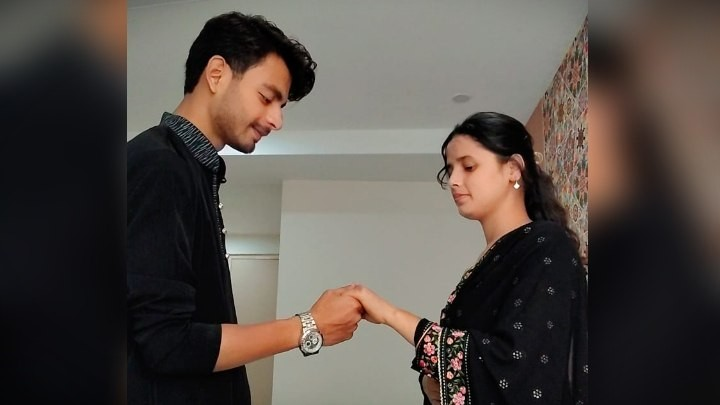
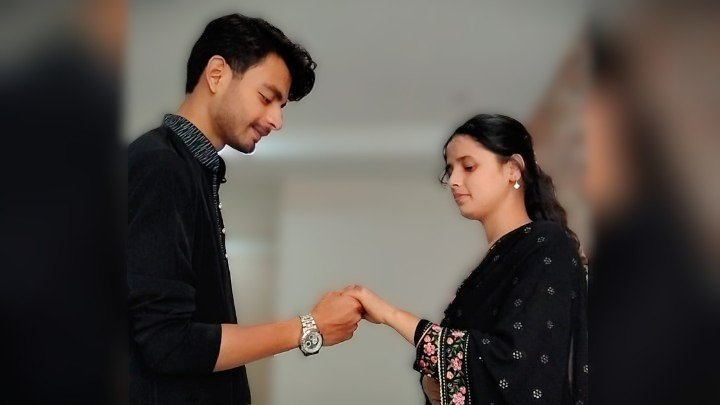
Added codes

diff --git a/components/MusicPlayer.jsx b/components/MusicPlayer.jsx
@@ -9,6 +9,15 @@ export default function MusicPlayer() {
   const toggleMusic = () => {
     if (!audioRef.current) return;
 
+    // 🎵 interaction music
+    const interactionMusic = document.getElementById("interaction-music");
+
+    // 🔥 stop interaction music
+    if (interactionMusic) {
+      interactionMusic.pause();
+      //interactionMusic.currentTime = 0;
+    }
+
     if (playing) {
       audioRef.current.pause();
       setPlaying(false);
@@ -19,22 +28,33 @@ export default function MusicPlayer() {
   };
 
   useEffect(() => {
-    const audio = audioRef.current;
-
-    if (!audio) return;
-
-    const onPlay = () => setPlaying(true);
-    const onPause = () => setPlaying(false);
-
-    audio.addEventListener("play", onPlay);
-    audio.addEventListener("pause", onPause);
-
-    return () => {
-      audio.removeEventListener("play", onPlay);
-      audio.removeEventListener("pause", onPause);
-    };
+    window.switchToInteractionMusic = switchToInteractionMusic;
+    window.restoreMainMusic = restoreMainMusic;
   }, []);
 
+  const switchToInteractionMusic = () => {
+    const bgMusic = document.getElementById("bg-music");
+    const interactionMusic = document.getElementById("interaction-music");
+
+    if (bgMusic && interactionMusic) {
+      bgMusic.pause();
+
+      interactionMusic.volume = 0.5;
+      interactionMusic.play().catch(() => {});
+    }
+  };
+
+  const restoreMainMusic = () => {
+    const bgMusic = document.getElementById("bg-music");
+    const interactionMusic = document.getElementById("interaction-music");
+
+    if (bgMusic && interactionMusic) {
+      interactionMusic.pause();
+
+      bgMusic.volume = 0.5;
+      bgMusic.play().catch(() => {});
+    }
+  };
   useEffect(() => {
     const audio = audioRef.current;
 
@@ -57,6 +77,9 @@ export default function MusicPlayer() {
       {/* 🎵 Audio */}
       <audio id="bg-music" ref={audioRef} loop preload="auto">
         <source src="/music2.mp3" type="audio/mpeg" />
+      </audio>
+      <audio id="interaction-music" loop preload="auto">
+        <source src="/music.mp3" type="audio/mpeg" />
       </audio>
 
       {/* 🎧 Button */}

diff --git a/components/Gallery.jsx b/components/Gallery.jsx
@@ -150,30 +150,7 @@ function GalleryCard({
         <div className="absolute inset-0 bg-gradient-to-br from-purple-500/10 to-pink-500/10 opacity-0 group-hover:opacity-100 transition duration-500 z-10" />
 
         {/* 🔥 Slider */}
-        <motion.div
-          drag="x"
-          dragConstraints={{ left: 0, right: 0 }}
-          onDragStart={() => setIsDragging(true)}
-          onDragEnd={(e, info) => {
-            const threshold = 50;
-
-            // 👉 Swipe Left
-            if (info.offset.x < -threshold) {
-              setManualIndex((prev) => (prev + 1) % item.images.length);
-            }
-
-            // 👉 Swipe Right
-            if (info.offset.x > threshold) {
-              setManualIndex((prev) =>
-                prev === 0 ? item.images.length - 1 : prev - 1,
-              );
-            }
-
-            // 🔥 Return to auto mode after 5 sec
-            setTimeout(() => {
-              setIsDragging(false);
-            }, 5000);
-          }}
+        <div
           className="flex transition-transform duration-700 ease-in-out h-100 cursor-grab active:cursor-grabbing"
           style={{
             transform: `translateX(-${current * 100}%)`,
@@ -190,7 +167,7 @@ function GalleryCard({
               "
             />
           ))}
-        </motion.div>
+        </div>
 
         {/* 🌌 Overlay */}
         <div className="absolute inset-0 bg-gradient-to-t from-black/80 via-black/20 to-transparent" />
@@ -269,7 +246,7 @@ function ImageSliderModal({ selectedImage, setSelectedImage }) {
         initial={{ scale: 0.85, opacity: 0 }}
         animate={{ scale: 1, opacity: 1 }}
         transition={{ type: "spring", stiffness: 120 }}
-        className="relative max-w-6xl w-full"
+        className="relative max-w-6xl w-96"
         onClick={(e) => e.stopPropagation()}
       >
         {/* ✨ Glow */}
@@ -289,7 +266,7 @@ function ImageSliderModal({ selectedImage, setSelectedImage }) {
                 src={img}
                 alt=""
                 className="
-                  w-full max-h-[85vh]
+                  w-96 max-h-[70vh]
                   object-cover shrink-0
                 "
               />
@@ -326,7 +303,13 @@ export default function Gallery() {
   }, [activeCard]);
 
   return (
-    <section id="Gallery" className="py-28 px-4 text-white relative z-10">
+    <section
+      id="Gallery"
+      className="py-28 px-4 text-white relative z-10"
+      onMouseEnter={() => window.switchToInteractionMusic?.()}
+      onMouseLeave={() => window.restoreMainMusic?.()}
+      onTouchStart={() => window.switchToInteractionMusic?.()}
+    >
       {/* 💖 Heading */}
       <div className="text-center mb-16">
         <h2

diff --git a/components/VideoSection.jsx b/components/VideoSection.jsx
@@ -75,11 +75,15 @@ export default function VideoSection() {
   };
 
   return (
-    <section id="Video" className="py-24 px-4 text-white relative z-10">
+    <section
+      id="Video"
+      className="py-24 px-4 text-white relative z-10"
+      onTouchStart={() => window.restoreMainMusic?.()}
+    >
       {/* Heading */}
       <div className="text-center mb-16">
         <h2 className="text-3xl md:text-5xl font-bold bg-gradient-to-r from-purple-300 to-pink-300 bg-clip-text text-transparent">
-          Our Moments 🎥
+          Our Moments
         </h2>
 
         <p className="text-gray-400 mt-3">

diff --git a/components/MemoryMarquee.jsx b/components/MemoryMarquee.jsx
@@ -44,7 +44,12 @@ export default function MemoryMarquee() {
   const [selectedImage, setSelectedImage] = useState(null);
 
   return (
-    <section className="py-20 text-white">
+    <section
+      className="py-20 text-white"
+      onMouseEnter={() => window.switchToInteractionMusic?.()}
+      onMouseLeave={() => window.restoreMainMusic?.()}
+      onTouchStart={() => window.switchToInteractionMusic?.()}
+    >
       {/* Heading */}
       <div className="text-center mb-10">
         <h2 className="text-2xl md:text-3xl font-semibold">My fav Pics ❤️</h2>

diff --git a/components/Timeline.jsx b/components/Timeline.jsx
@@ -69,7 +69,11 @@ export default function Timeline() {
   );
 
   return (
-    <section id="Timeline" className="relative py-24 px-4 text-white">
+    <section
+      id="Timeline"
+      className="relative py-24 px-4 text-white"
+      onTouchStart={() => window.restoreMainMusic?.()}
+    >
       {/* Heading */}
       <div className="text-center mb-20">
         <h2 className="text-3xl md:text-4xl font-bold">Our Journey ❤️</h2>

diff --git a/components/About.jsx b/components/About.jsx
@@ -51,7 +51,7 @@ export default function About() {
 
           <p>Tumhare saath har chhota moment bhi special ban gaya 💖</p>
 
-          <p>
+          {/* <p>
             Phir kuch phases aise bhi aaye… jab sab thoda door ho gaya. Sach
             bolu toh woh time mere liye bohot tough tha.
           </p>
@@ -59,7 +59,7 @@ export default function About() {
           <p>
             Par phir dheere dheere sab wapas normal hone laga… aur har naye
             moment ke saath, main tumhe thoda aur samajhne laga.
-          </p>
+          </p> */}
 
           <p>
             Aur phir aaya 10 May… 💌 jab humne pehli baar ek dusre ko letters